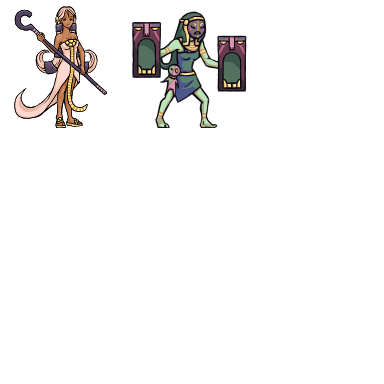
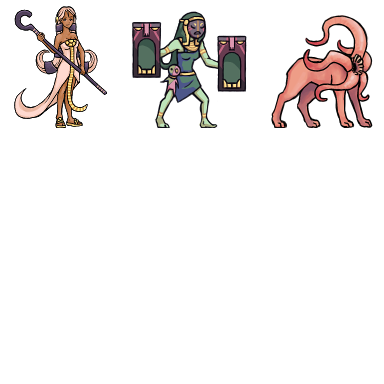
Pink enemy spritesheet added.

Changed region(s): [[0.6875, 0.0312, 0.9688, 0.3438]]

diff --git a/src/gameworld.py b/src/gameworld.py
@@ -385,24 +385,43 @@ class GameWorld(object):
         :param position: position where enemy is created
         :type position: 2d list
         """
-        #Enemy's hitbox, it is 50 pixel width and 96 pixel height
-        coll = components.Collider(position[0], position[1], 50, 96)
-        vel = components.Velocity(0, 0, max_x_vel, max_y_vel)
-        #Create enemy's animations
-        temp = pygame.image.load(os.path.join('data', 'enemy_pink_1.png')).convert_alpha()
-        anim_list = [2, 10, 4, 8, 2, 1, 1]
-        anim_time_list = [240, 60, 44, 120, 10, 10, 10]
-        anim = components.Appearance(temp, 128, 128, anim_list, anim_time_list)
-        anim.rect.center = coll.center
-        direction = components.Direction([1, 0])
-        hp = components.Health(max_hp)
-        c = (coll, direction, vel, anim, hp)
-        enemy_ID = self.create_entity(c)
-
         if ai_ID == "green_1":
+            #Enemy's hitbox, it is 50 pixel width and 96 pixel height
+            coll = components.Collider(position[0], position[1], 50, 96)
+            vel = components.Velocity(0, 0, max_x_vel, max_y_vel)
+            #Create enemy's animations
+            temp = pygame.image.load(os.path.join('data', 'enemy_green_1.png')).convert_alpha()
+            anim_list = [2, 10, 4, 8, 2, 1]
+            anim_time_list = [240, 60, 44, 120, 10, 10]
+            anim = components.Appearance(temp, 128, 128, anim_list, anim_time_list)
+            anim.rect.center = coll.center
+            direction = components.Direction([1, 0])
+            hp = components.Health(max_hp)
+            c = (coll, direction, vel, anim, hp)
+            enemy_ID = self.create_entity(c)
+            
+            enemy_AI = ai.AI_1(self, enemy_ID, self.event_manager)
+            self.add_component_to_entity(enemy_ID, enemy_AI)
+            self.add_component_to_entity(enemy_ID, attack_list)
+
+        elif ai_ID == "pink_1":
+            #Enemy's hitbox, it is 50 pixel width and 96 pixel height
+            coll = components.Collider(position[0], position[1], 50, 96)
+            vel = components.Velocity(0, 0, max_x_vel, max_y_vel)
+            #Create enemy's animations
+            temp = pygame.image.load(os.path.join('data', 'enemy_pink_1.png')).convert_alpha()
+            anim_list = [4, 3, 6, 8, 2, 4]
+            anim_time_list = [240, 60, 44, 58, 10, 44]
+            anim = components.Appearance(temp, 243, 128, anim_list, anim_time_list)
+            anim.rect.center = coll.center
+            direction = components.Direction([1, 0])
+            hp = components.Health(max_hp)
+            c = (coll, direction, vel, anim, hp)
+            enemy_ID = self.create_entity(c)
+            
             enemy_AI = ai.AI_2(self, enemy_ID, self.event_manager)
-        self.add_component_to_entity(enemy_ID, enemy_AI)
-        self.add_component_to_entity(enemy_ID, attack_list)
+            self.add_component_to_entity(enemy_ID, enemy_AI)
+            self.add_component_to_entity(enemy_ID, attack_list)
 
     def add_component_to_entity(self, entity_ID, component):
         if isinstance(component, components.Collider):

diff --git a/src/ai.py b/src/ai.py
@@ -333,7 +333,7 @@ class AI_2(AI):
                             self.invert_walk_direction()
                         elif self.walking_right() and self_collider.right > event.collidee.left:
                             self.invert_walk_direction()
-            random_number = random_(300)
+            random_number = random_(700)
             #Randomly go in idle state
             if random_number == 0:
                 #Set duration of idle state####
